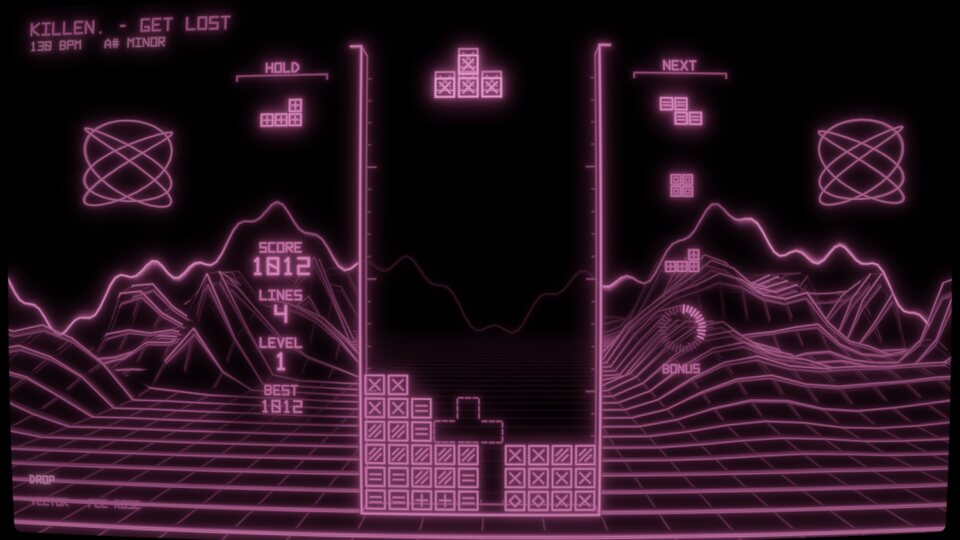
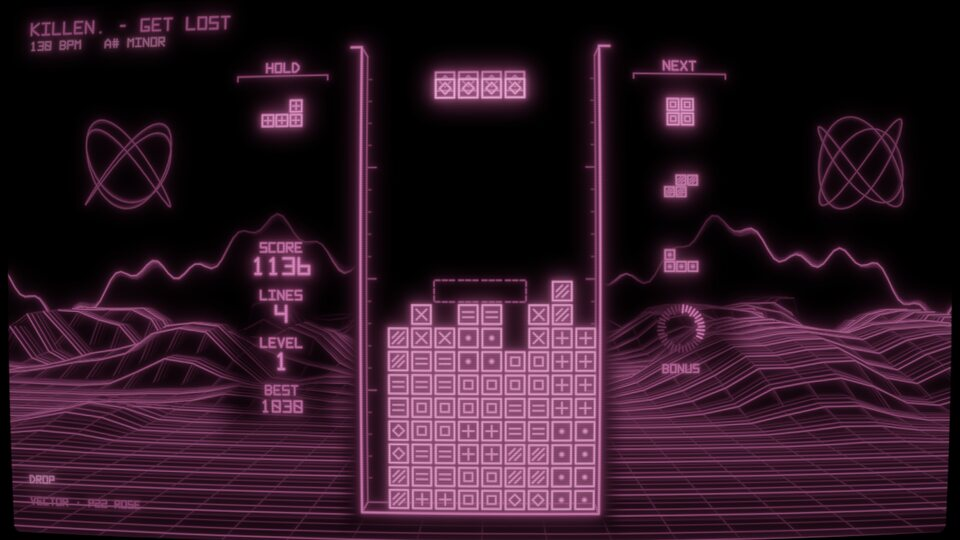
VECTOR: docs text and picture for the calmer peak and the separated stack
Claude-Session: https://claude.ai/code/session_01DBPtRFs6M8Q4o53Qj6BCRE

diff --git a/docs/universes.md b/docs/universes.md
@@ -14,7 +14,7 @@ moves on to the next. Every universe ships a few curated **variants**, picked pe
 
 ![VECTOR](universes/vector.jpg)
 
-Phosphor beams on a dark CRT. Four phosphors (P1 green, P3 amber, P4 white, P22 rose), from the key.
+Phosphor beams on a dark CRT. Four phosphors (P1 green, P3 amber, P4 white, P22 rose), from the key. The pieces burn with a white-hot core and a faint lit interior; the world behind (horizon trace, floor grid, mountains) is dimmer, thinner and fades out around the well. Peaks stay calm: low mountains breathing with the spectrum, two faint Lissajous scopes, a soft bloom swell on the drop.
 
 ## SUMI
 
@@ -112,7 +112,7 @@ others are ideas waiting to be built. To build one, see [Adding a universe](addi
 | # | Universe | Look | How the music plays it | Status |
 |---|---|---|---|---|
 | 1 | SUMI | Ink on washi paper, sumi black + one vermilion seal; brushed pieces told apart by ink treatment | Beats diffuse ink in the paper; calm = faint far mountain, peak = ensō brush circle and red sun; a clear is one brush stroke | ✅ |
-| 2 | VECTOR | Phosphor beams on black CRT glass, one phosphor per song, persistence trails; pieces are line glyphs | Calm = a lone oscilloscope trace; mid = scrolling vector grid; peak = spectrum mountains, Lissajous, beam overdrive; clears shatter into vector debris | ✅ |
+| 2 | VECTOR | Phosphor beams on black CRT glass, one phosphor per song, persistence trails; pieces are line glyphs | Calm = a lone oscilloscope trace; mid = scrolling vector grid; peak = low spectrum mountains and faint Lissajous scopes, breathing on the beat (no flash, no shake); clears shatter into vector debris | ✅ |
 | 3 | DIORAMA | Sunlit clay miniature: the board on a floating island, soft shadows, tilt-shift | Phases are times of day (dawn, day, golden hour); kicks ripple the water; cleared blocks tumble into the sea; slow motion is a moonlit night | ✅ |
 | 4 | PIXEL | Native 320×180 pixel art, 16-color palette, Bayer dithering, parallax layers | Sprites animate on the beat; peak adds parallax layers and weather; clears are pixel explosions | ✅ |
 | 5 | SYNTHWAVE | Cinematic night drive: a soft low sun in the haze, a wet road, fine lines into the fog, frosted glass pieces | The road moves with the tempo; light pulses on the beat; peak = light trails and anamorphic flares on the kicks | ✅ |
